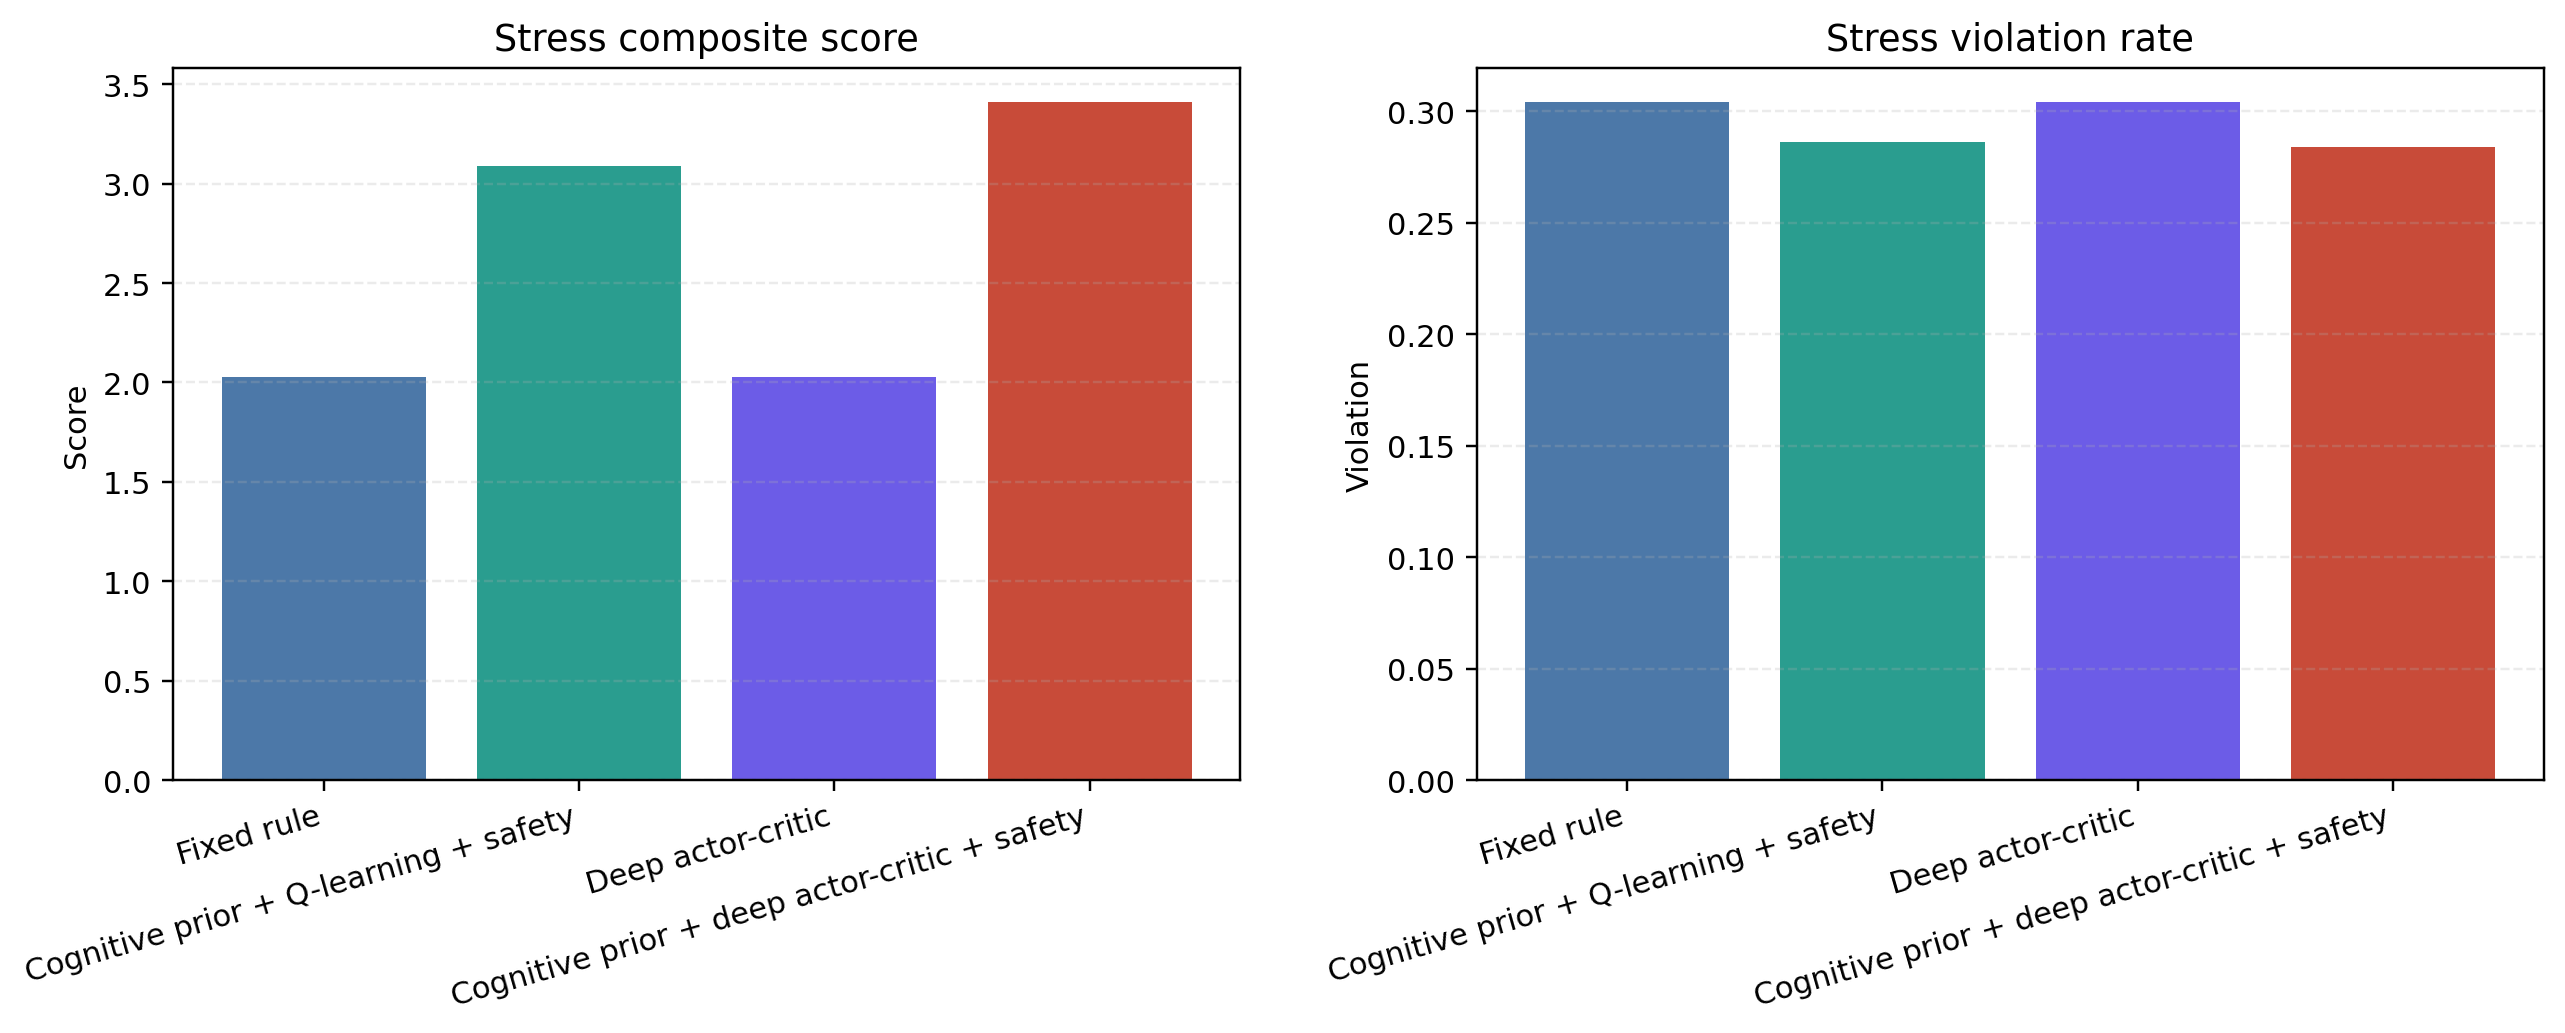
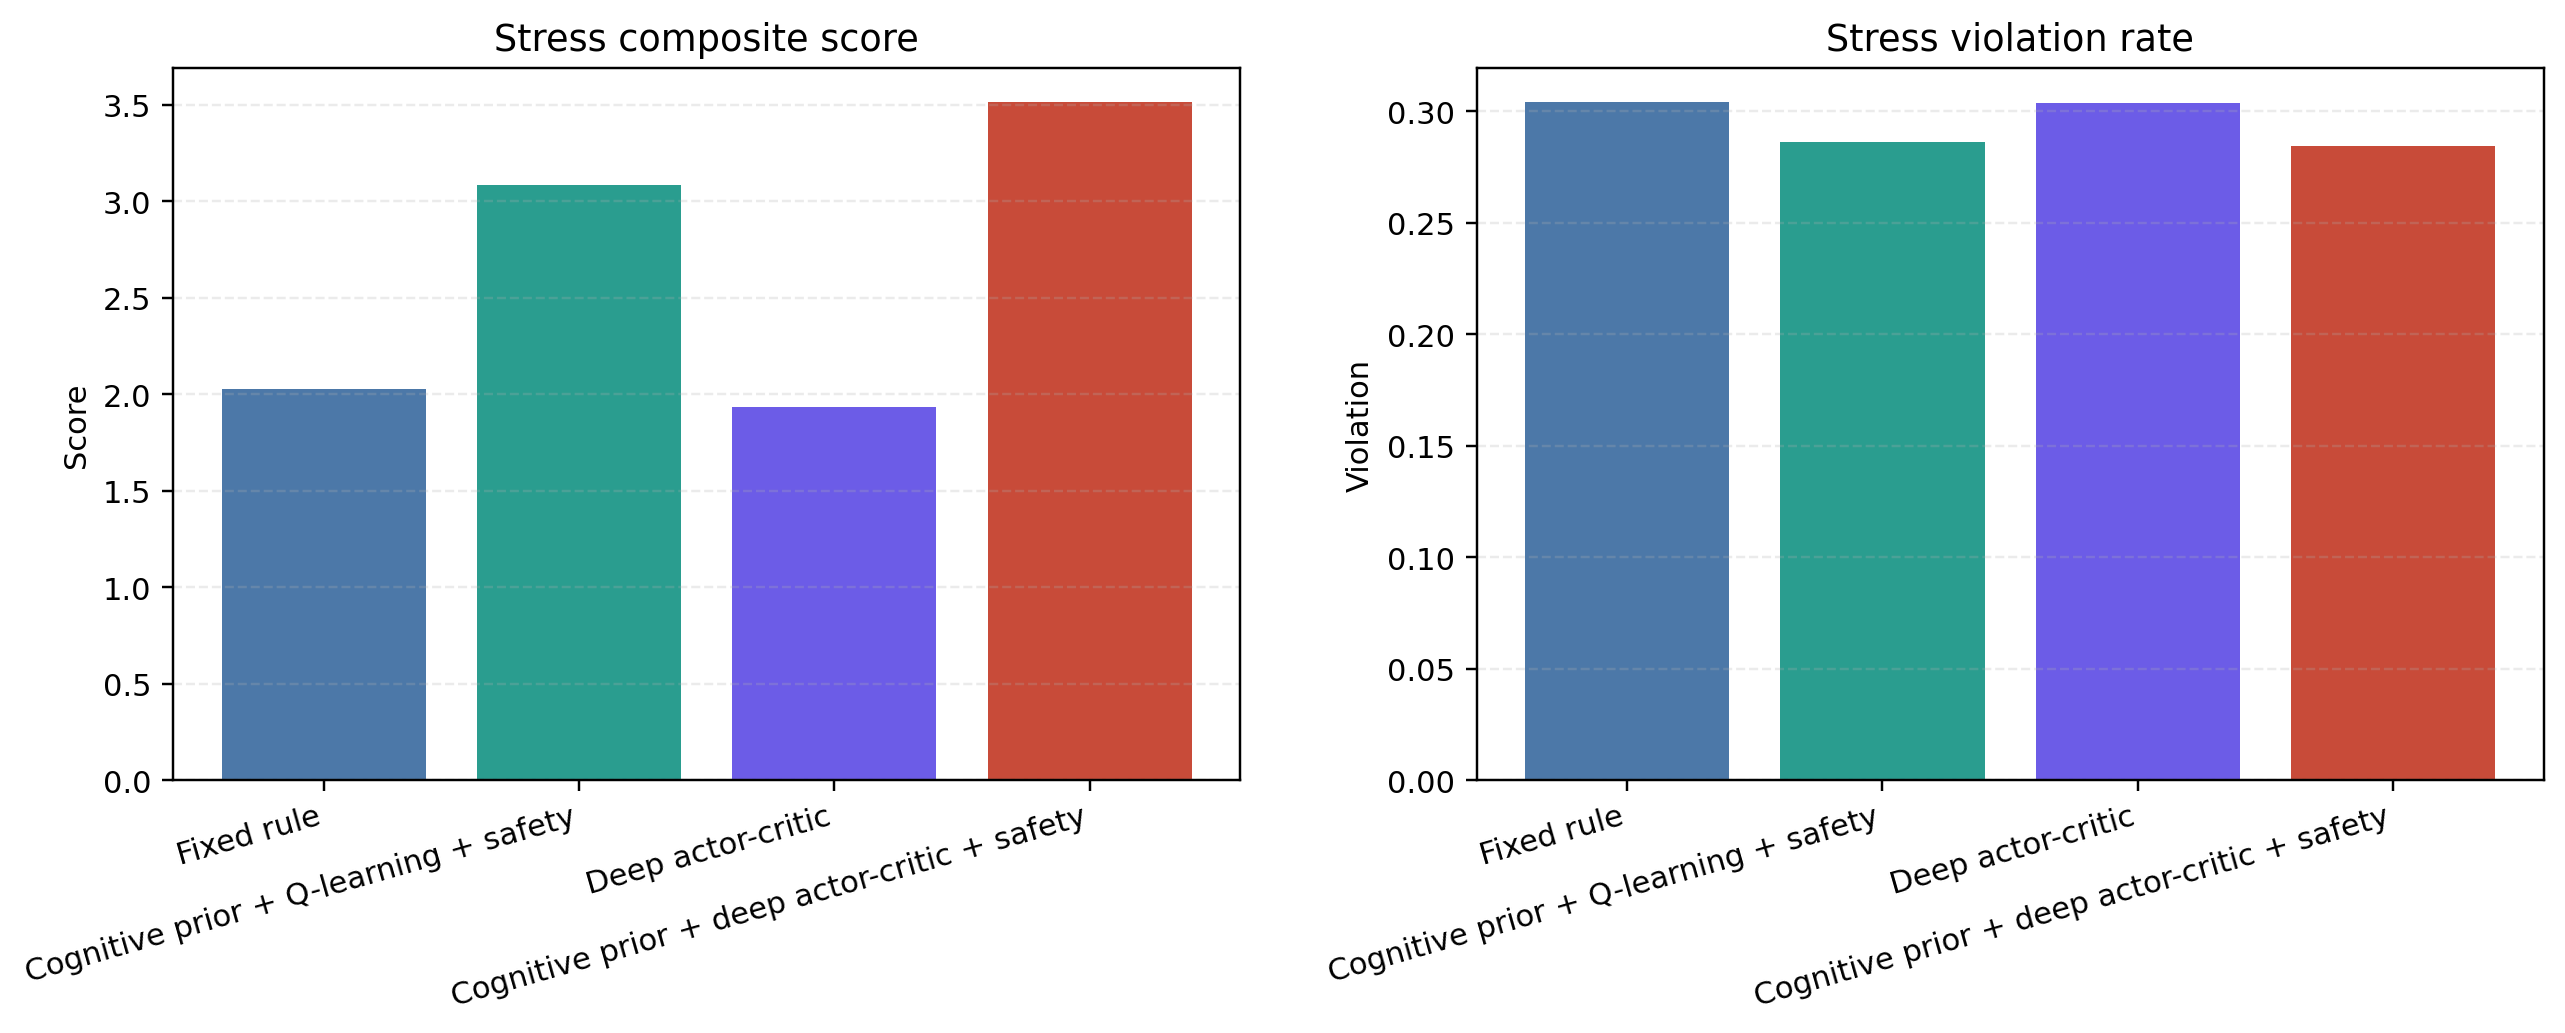
Rerun full deep RL realism experiments

diff --git a/results/deep_rl_comparison_table.tex b/results/deep_rl_comparison_table.tex
@@ -2,19 +2,20 @@
   \centering
   \caption{Deep high-level reinforcement-learning comparison.}
   \label{tab:deep_rl_comparison}
+  \resizebox{\linewidth}{!}{%
   \begin{tabular}{llrrrr}
     \toprule
     Method & Regime & Rescue & Formation err. & Violation & Score \\
     \midrule
     Fixed rule & Standard & 0.239 & 3.74 & 0.159 & 23.37 \\
     Cognitive prior + Q-learning + safety & Standard & 0.246 & 3.27 & 0.148 & 24.49 \\
-    Deep actor-critic & Standard & 0.239 & 3.74 & 0.159 & 23.37 \\
-    Cognitive prior + deep actor-critic + safety & Standard & 0.246 & 3.25 & 0.147 & 24.51 \\
+    Deep actor-critic & Standard & 0.237 & 3.73 & 0.159 & 23.14 \\
+    Cognitive prior + deep actor-critic + safety & Standard & 0.248 & 3.26 & 0.147 & 24.74 \\
     \midrule
     Fixed rule & Stress & 0.110 & 4.32 & 0.304 & 2.03 \\
     Cognitive prior + Q-learning + safety & Stress & 0.118 & 3.57 & 0.286 & 3.09 \\
-    Deep actor-critic & Stress & 0.110 & 4.32 & 0.304 & 2.03 \\
-    Cognitive prior + deep actor-critic + safety & Stress & 0.119 & 3.47 & 0.284 & 3.41 \\
+    Deep actor-critic & Stress & 0.110 & 4.29 & 0.304 & 1.94 \\
+    Cognitive prior + deep actor-critic + safety & Stress & 0.120 & 3.49 & 0.284 & 3.51 \\
     \bottomrule
-  \end{tabular}
+  \end{tabular}}
 \end{table}

diff --git a/results/realism_layer_table.tex b/results/realism_layer_table.tex
@@ -2,6 +2,7 @@
   \centering
   \caption{Stress-regime evaluation with hydrodynamic, sensor-noise, and packet-drop perturbations.}
   \label{tab:realism_layer}
+  \resizebox{\linewidth}{!}{%
   \begin{tabular}{llrrrrr}
     \toprule
     Method & Layer & Rescue & Formation err. & Violation & Drop rate & Score \\
@@ -12,11 +13,11 @@
     Cognitive prior + Q-learning + safety & Nominal & 0.118 & 3.57 & 0.286 & 0.000 & 3.09 \\
     Cognitive prior + Q-learning + safety & Hydro+sensor+comm & 0.111 & 3.91 & 0.295 & 0.463 & 1.63 \\
     \midrule
-    Deep actor-critic & Nominal & 0.110 & 4.32 & 0.304 & 0.000 & 2.03 \\
-    Deep actor-critic & Hydro+sensor+comm & 0.105 & 4.73 & 0.314 & 0.412 & 0.69 \\
+    Deep actor-critic & Nominal & 0.110 & 4.29 & 0.304 & 0.000 & 1.94 \\
+    Deep actor-critic & Hydro+sensor+comm & 0.103 & 4.76 & 0.315 & 0.498 & 0.37 \\
     \midrule
-    Cognitive prior + deep actor-critic + safety & Nominal & 0.119 & 3.47 & 0.284 & 0.000 & 3.41 \\
-    Cognitive prior + deep actor-critic + safety & Hydro+sensor+comm & 0.112 & 3.79 & 0.292 & 0.449 & 2.00 \\
+    Cognitive prior + deep actor-critic + safety & Nominal & 0.120 & 3.49 & 0.284 & 0.000 & 3.51 \\
+    Cognitive prior + deep actor-critic + safety & Hydro+sensor+comm & 0.114 & 3.81 & 0.292 & 0.413 & 2.16 \\
     \bottomrule
-  \end{tabular}
+  \end{tabular}}
 \end{table}

diff --git a/scripts/run_deep_rl_realism_experiments.py b/scripts/run_deep_rl_realism_experiments.py
@@ -401,6 +401,7 @@ def export_deep_table(rows: Sequence[Dict[str, object]]) -> None:
         "  \\centering",
         "  \\caption{Deep high-level reinforcement-learning comparison.}",
         "  \\label{tab:deep_rl_comparison}",
+        "  \\resizebox{\\linewidth}{!}{%",
         "  \\begin{tabular}{llrrrr}",
         "    \\toprule",
         "    Method & Regime & Rescue & Formation err. & Violation & Score \\\\",
@@ -414,7 +415,7 @@ def export_deep_table(rows: Sequence[Dict[str, object]]) -> None:
             )
         lines.append("    \\midrule")
     lines[-1] = "    \\bottomrule"
-    lines.extend(["  \\end{tabular}", "\\end{table}"])
+    lines.extend(["  \\end{tabular}}", "\\end{table}"])
     (RESULTS_DIR / "deep_rl_comparison_table.tex").write_text("\n".join(lines) + "\n", encoding="utf-8")
 
 
@@ -424,6 +425,7 @@ def export_realism_table(rows: Sequence[Dict[str, object]]) -> None:
         "  \\centering",
         "  \\caption{Stress-regime evaluation with hydrodynamic, sensor-noise, and packet-drop perturbations.}",
         "  \\label{tab:realism_layer}",
+        "  \\resizebox{\\linewidth}{!}{%",
         "  \\begin{tabular}{llrrrrr}",
         "    \\toprule",
         "    Method & Layer & Rescue & Formation err. & Violation & Drop rate & Score \\\\",
@@ -439,7 +441,7 @@ def export_realism_table(rows: Sequence[Dict[str, object]]) -> None:
             )
         lines.append("    \\midrule")
     lines[-1] = "    \\bottomrule"
-    lines.extend(["  \\end{tabular}", "\\end{table}"])
+    lines.extend(["  \\end{tabular}}", "\\end{table}"])
     (RESULTS_DIR / "realism_layer_table.tex").write_text("\n".join(lines) + "\n", encoding="utf-8")
 
 